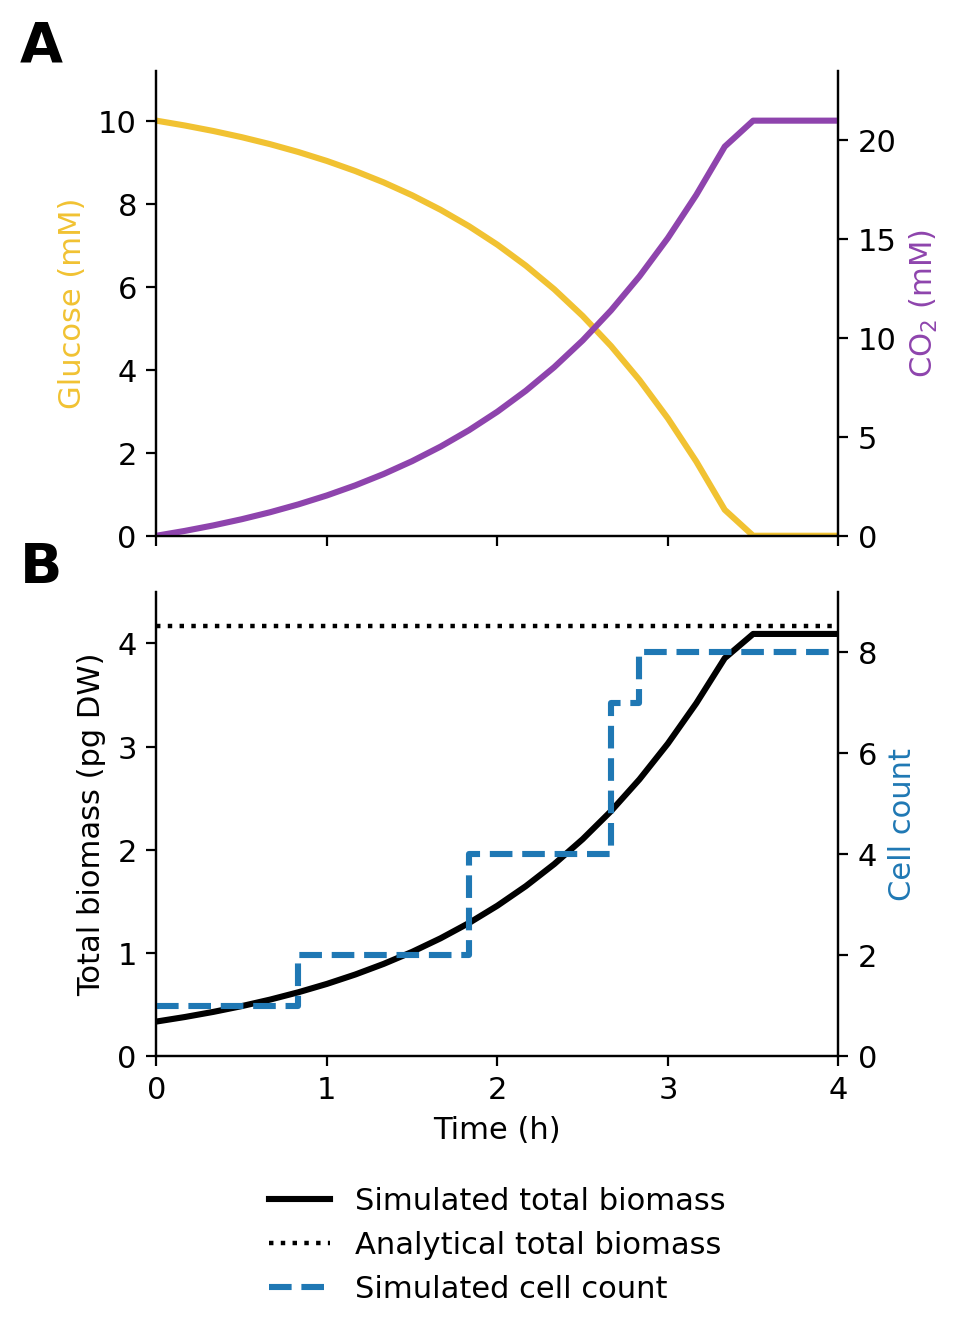
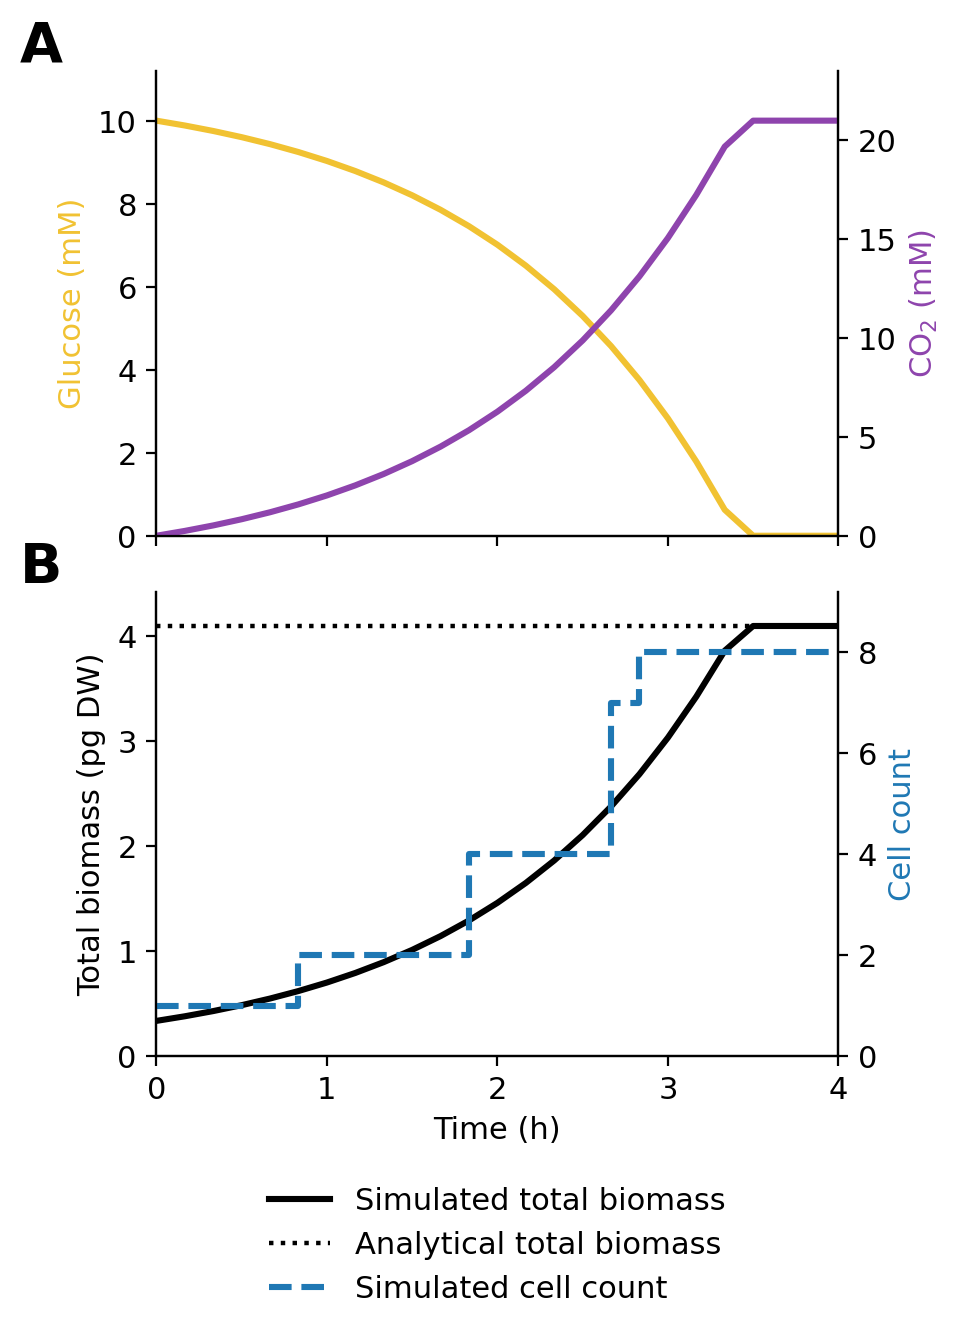
Unit test figure: analytical endpoint from FBA of the run's model (4.093 pg), not the hard-coded 0.5197 yield; notes

diff --git a/usecases/unit_test/scripts/make_figure.py b/usecases/unit_test/scripts/make_figure.py
@@ -1,6 +1,6 @@
 """Mass-conservation figure (manuscript Fig. 2 layout) from the closed-batch unit test: A glucose and CO2 (box means), B total dry biomass (solid), analytical endpoint (dotted), cell count (dashed).
 usage: make_figure.py RUNDIR OUT_PREFIX [TMAX_H=4]
-Analytical endpoint as in dfba_analysis.ipynb: initial biomass + glucose in the box (10 mM x 4096 um3) x 180 g/mol x 0.5197 gDW/g glucose (the e_coli_core aerobic yield, taken from the notebook, not recomputed here).
+Analytical endpoint (Supplementary Methods S4): initial biomass + (mu / q_glc) x glucose in the box (10 mM x 4096 um3), with mu and q_glc from FBA of the run's own model at the glucose and oxygen Vmax of its configuration (yield 0.0917 gDW per mmol glucose, 0.509 gDW/g, for the shipped e_coli_core; the 0.5197 hard-coded in dfba_analysis.ipynb is not what this model gives and overstates the endpoint by 1.85%).
 Dry biomass = sum(volume x (1 - fluid fraction)) x 1.04 pg/um3."""
 import sys, glob, os, numpy as np, scipy.io as sio, xml.etree.ElementTree as ET, matplotlib
 matplotlib.use("Agg"); import matplotlib.pyplot as plt
@@ -13,7 +13,14 @@ for s in sorted(glob.glob(f"{run}/output*[0-9].xml")):
     bio.append((v * (1 - ff)).sum() * 1.04); n.append(len(v))
     me = sio.loadmat(s.replace(".xml", "_microenvironment0.mat"))["multiscale_microenvironment"]; glc.append(me[5].mean()); co2.append(me[7].mean())
 t, glc, co2, bio, n = map(np.array, (t, glc, co2, bio, n)); k = t <= TMAX
-ana = bio[0] + 10e-3 * 4096e-15 * 180 * 0.5197 * 1e12
+import cobra, warnings; warnings.filterwarnings("ignore")
+cfg = ET.parse(f"{run}/PhysiCell_settings.xml").getroot(); uc = os.path.join(os.path.dirname(os.path.abspath(__file__)), "..")
+ex = {e.get("substrate"): (e.find("fba_flux").text.strip().replace("R_", "", 1), float(e.find("Vmax").text)) for e in cfg.findall(".//transport_model/exchange")}
+model = cobra.io.read_sbml_model(os.path.join(uc, cfg.find(".//sbml_filename").text.strip()))
+for sub in ("glucose", "oxygen"): model.reactions.get_by_id(ex[sub][0]).lower_bound = -ex[sub][1]
+sol = model.optimize(); mu, qg = sol.objective_value, -sol.fluxes[ex["glucose"][0]]
+print("FBA at the configured Vmax: mu %.4f 1/h, q_glc %.3f mmol/gDW/h, yield %.4f gDW/mmol (%.4f gDW/g)" % (mu, qg, mu / qg, mu / qg * 1000 / 180.0))
+ana = bio[0] + (mu / qg) * (10e-3 * 4096e-15 * 1e3) * 1e12
 print("final biomass %.3f pg, analytical %.3f pg (%.2f%%), cells %d, glucose at the end %.2e mM" % (bio[-1], ana, 100 * (bio[-1] / ana - 1), n[-1], glc[-1]))
 plt.rcParams.update({"font.size": 11, "axes.spines.top": False})
 fig, (a, b) = plt.subplots(2, 1, figsize=(4.4, 6.4), sharex=True, dpi=200, gridspec_kw=dict(hspace=0.12))

diff --git a/usecases/unit_test/RESULTS.md b/usecases/unit_test/RESULTS.md
@@ -52,6 +52,11 @@ Sources: voxel and configured volumes from the shipped configurations. Measured 
 
 The time step and the voxel size do not change the single-cell and shared-voxel results as long as the voxel is large enough for the cells and the initial cap number is below 0.3. The colony's own dependence on dt comes from the cap at its density (`../colony/RESULTS.md`).
 
+
+## Analytical endpoint of the mass-conversion test (UT-BASE)
+
+The endpoint is the initial biomass plus (mu / q_glc) times the glucose in the box, with mu and q_glc from FBA of the run's own model at the glucose (8 mmol/gDW/h) and oxygen (18) Vmax of its configuration (`scripts/make_figure.py`): mu 0.7333 1/h, q_glc 8.0, yield 0.0917 gDW per mmol glucose (0.509 gDW/g), 0.338 pg initial biomass, so 4.093 pg; the run ends at 4.093 pg (8 cells, glucose exhausted), a difference below 0.01%. The shipped `Ecoli_core.xml` has ATPM at 0; with ATPM at 8.39 the same calculation gives 3.874 pg. **The earlier figure and notebook used a hard-coded yield of 0.5197 gDW/g (`dfba_analysis.ipynb`, "matches FBA model"), which this model does not give (0.5092): it overstates the endpoint (4.170 pg) and shows a spurious -1.85% error.** The values in the submitted text and S4 Table 1 (4.08 / 4.09 and 3.87 / 3.88 pg) agree with the FBA-derived 4.093 and 3.874 pg to within 0.02 pg. The with-ATPM variant and the iML1515 repetition are not in the pinned runs (UT-ATPM, UT-IML1515 would have to be added to report them from this repository).
+
 ## Open
 
 1. UT-DOMAIN (needs the addon hotfix), UT-TRIM, UT-ELEM for the four other models.
